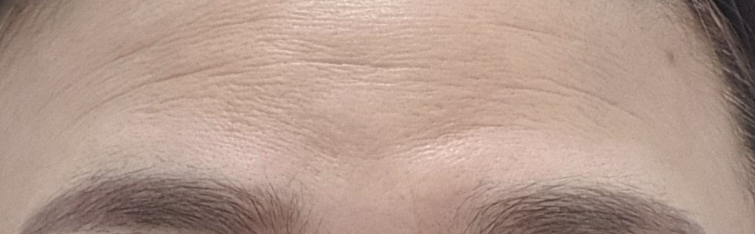
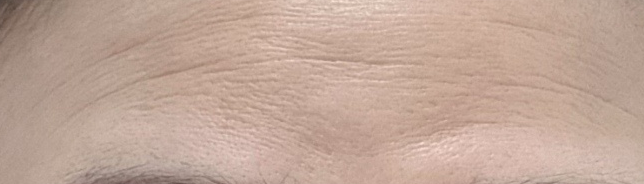
update the crop region
forehead, cheek and chin

diff --git a/src/img_cropping/crop_var3.py b/src/img_cropping/crop_var3.py
@@ -1,0 +1,203 @@
+# crop_regions_full.py
+import os
+import sys
+import glob
+import cv2
+import mediapipe as mp
+import numpy as np
+
+DEFAULT_INPUT_DIR = "images_in"
+OUTPUT_DIR = "crops_out"
+
+PADDING_X = 0.06   # horizontal padding
+PADDING_Y = 0.06   # vertical padding
+
+# --- Landmark index groups (MediaPipe FaceMesh) ---
+
+# Rough forehead band (upper forehead area)
+FOREHEAD_IDXS = [10, 67, 103, 109, 338, 297, 337, 151]
+
+# Eyebrow upper boundary (used as lower border for forehead)
+LEFT_EB_UPPER  = [70, 63, 105, 66, 107]
+RIGHT_EB_UPPER = [336, 296, 295, 334, 293]
+
+# Cheek horizontal extents (we'll clamp vertically between eye and lip)
+LEFT_CHEEK_IDXS  = [234, 93, 137, 132, 58, 172, 136, 150, 149, 176]
+RIGHT_CHEEK_IDXS = [454, 323, 366, 361, 288, 397, 365, 379, 378, 400]
+
+# Eye lower lids – define “under the eyes”
+LEFT_EYE_LOWER  = [145, 159]
+RIGHT_EYE_LOWER = [374, 386]
+
+# Upper and lower lip anchors
+UPPER_LIP = [13]        # mouth top center
+LOWER_LIP = [14]        # mouth bottom center
+
+# Chin / jaw for horizontal extent and bottom
+CHIN_IDXS = [152, 176, 148, 149, 150, 400, 379, 378, 365]
+
+
+def get_xy(landmarks, w, h):
+    return np.array([(int(l.x * w), int(l.y * h)) for l in landmarks], dtype=np.int32)
+
+
+def process_image(path, face_mesh):
+    img = cv2.imread(path)
+    if img is None:
+        print(f"[WARN] cannot read: {path}")
+        return
+
+    h, w = img.shape[:2]
+    rgb = cv2.cvtColor(img, cv2.COLOR_BGR2RGB)
+    res = face_mesh.process(rgb)
+
+    if not res.multi_face_landmarks:
+        print(f"[WARN] no face landmarks in: {path}")
+        return
+
+    lms = res.multi_face_landmarks[0].landmark
+    pts = get_xy(lms, w, h)
+
+    # Convenience picks
+    eyebrow_pts = pts[LEFT_EB_UPPER + RIGHT_EB_UPPER]
+    eye_lower_left  = pts[LEFT_EYE_LOWER]
+    eye_lower_right = pts[RIGHT_EYE_LOWER]
+    upper_lip_pts   = pts[UPPER_LIP]
+    lower_lip_pts   = pts[LOWER_LIP]
+    chin_pts        = pts[CHIN_IDXS]
+
+    eyebrow_y = int(np.min(eyebrow_pts[:, 1]))             # top of eyebrows
+    eye_y_left  = int(np.mean(eye_lower_left[:, 1]))       # lower eyelid left
+    eye_y_right = int(np.mean(eye_lower_right[:, 1]))      # lower eyelid right
+    upper_lip_y = int(np.mean(upper_lip_pts[:, 1]))        # top of lip
+    lower_lip_y = int(np.mean(lower_lip_pts[:, 1]))        # bottom of lip
+    chin_bottom_y = int(np.max(chin_pts[:, 1]))            # lowest chin point
+
+    # Small relative offsets so we stay strictly in the desired band
+    def band_y(top, bottom, inner_ratio_top=0.05, inner_ratio_bottom=0.05):
+        span = bottom - top
+        y1 = int(top + inner_ratio_top * span)
+        y2 = int(bottom - inner_ratio_bottom * span)
+        return max(0, y1), min(h - 1, y2)
+
+    # ----------------- Forehead (above eyebrows) -----------------
+    fh_pts = pts[FOREHEAD_IDXS]
+    x_min_fh = int(np.min(fh_pts[:, 0]))
+    x_max_fh = int(np.max(fh_pts[:, 0]))
+
+    # vertical: from forehead band down to just above eyebrows
+    fh_top = int(np.min(fh_pts[:, 1]))
+    fh_bottom = eyebrow_y
+    y1_fh, y2_fh = fh_top, fh_bottom - 1  # explicitly end above brows
+
+    # padding
+    dx_fh = int((x_max_fh - x_min_fh) * PADDING_X)
+    dy_fh = int((y2_fh - y1_fh) * PADDING_Y) if y2_fh > y1_fh else 0
+
+    x1_fh = max(0, x_min_fh - dx_fh)
+    x2_fh = min(w - 1, x_max_fh + dx_fh)
+    y1_fh = max(0, y1_fh - dy_fh)
+    y2_fh = max(y1_fh + 1, min(h - 1, y2_fh + dy_fh))
+
+    forehead = img[y1_fh:y2_fh, x1_fh:x2_fh]
+
+    # ----------------- Cheeks (under eyes, above lip) ------------
+
+    # vertical band for cheeks: between eye-lower and upper lip
+    cheek_top_left, cheek_bottom_left = band_y(eye_y_left, upper_lip_y)
+    cheek_top_right, cheek_bottom_right = band_y(eye_y_right, upper_lip_y)
+
+    # left cheek
+    l_pts = pts[LEFT_CHEEK_IDXS]
+    lx_min = int(np.min(l_pts[:, 0]))
+    lx_max = int(np.max(l_pts[:, 0]))
+    dx_l = int((lx_max - lx_min) * PADDING_X)
+
+    x1_l = max(0, lx_min - dx_l)
+    x2_l = min(w - 1, lx_max + dx_l)
+    y1_l = cheek_top_left
+    y2_l = cheek_bottom_left
+
+    left_cheek = img[y1_l:y2_l, x1_l:x2_l]
+
+    # right cheek
+    r_pts = pts[RIGHT_CHEEK_IDXS]
+    rx_min = int(np.min(r_pts[:, 0]))
+    rx_max = int(np.max(r_pts[:, 0]))
+    dx_r = int((rx_max - rx_min) * PADDING_X)
+
+    x1_r = max(0, rx_min - dx_r)
+    x2_r = min(w - 1, rx_max + dx_r)
+    y1_r = cheek_top_right
+    y2_r = cheek_bottom_right
+
+    right_cheek = img[y1_r:y2_r, x1_r:x2_r]
+
+    # ----------------- Chin (from under lip to chin) -------------
+    cx_min = int(np.min(chin_pts[:, 0]))
+    cx_max = int(np.max(chin_pts[:, 0]))
+
+    # vertical: start a bit below lower lip, end at chin bottom
+    chin_top_raw, chin_bottom_raw = lower_lip_y, chin_bottom_y
+    chin_top, chin_bottom = band_y(chin_top_raw, chin_bottom_raw,
+                                   inner_ratio_top=0.1, inner_ratio_bottom=0.0)
+
+    dx_c = int((cx_max - cx_min) * PADDING_X)
+    x1_c = max(0, cx_min - dx_c)
+    x2_c = min(w - 1, cx_max + dx_c)
+
+    y1_c = chin_top
+    y2_c = min(h - 1, chin_bottom + int((chin_bottom - chin_top) * PADDING_Y))
+
+    chin = img[y1_c:y2_c, x1_c:x2_c]
+
+    # ----------------- Save all four regions ---------------------
+    base = os.path.splitext(os.path.basename(path))[0]
+    out_forehead = os.path.join(OUTPUT_DIR, f"{base}_forehead.png")
+    out_left = os.path.join(OUTPUT_DIR, f"{base}_left_cheek.png")
+    out_right = os.path.join(OUTPUT_DIR, f"{base}_right_cheek.png")
+    out_chin = os.path.join(OUTPUT_DIR, f"{base}_chin.png")
+
+    cv2.imwrite(out_forehead, forehead)
+    cv2.imwrite(out_left, left_cheek)
+    cv2.imwrite(out_right, right_cheek)
+    cv2.imwrite(out_chin, chin)
+
+    print(f"[FULL] {path} ->")
+    print(f"       {out_forehead}")
+    print(f"       {out_left}")
+    print(f"       {out_right}")
+    print(f"       {out_chin}")
+
+
+def collect_paths(cli_arg):
+    if cli_arg is not None:
+        return [cli_arg]
+    paths = []
+    for pat in ("*.jpg", "*.jpeg", "*.png"):
+        paths.extend(glob.glob(os.path.join(DEFAULT_INPUT_DIR, pat)))
+    return sorted(paths)
+
+
+def main():
+    cli_path = sys.argv[1] if len(sys.argv) > 1 else None
+    os.makedirs(OUTPUT_DIR, exist_ok=True)
+
+    img_paths = collect_paths(cli_path)
+    if not img_paths:
+        print("[ERROR] no images found")
+        return
+
+    mp_face_mesh = mp.solutions.face_mesh
+    with mp_face_mesh.FaceMesh(
+        static_image_mode=True,
+        max_num_faces=1,
+        refine_landmarks=True,
+        min_detection_confidence=0.5
+    ) as face_mesh:
+        for p in img_paths:
+            process_image(p, face_mesh)
+
+
+if __name__ == "__main__":
+    main()

diff --git a/src/img_cropping/crop_var2.py b/src/img_cropping/crop_var2.py
@@ -1,0 +1,145 @@
+import os
+import sys
+import glob
+import cv2
+import mediapipe as mp
+import numpy as np
+
+DEFAULT_INPUT_DIR = "images_in"
+OUTPUT_DIR = "crops_out"
+PADDING = 0.06  # bbox padding ratio
+
+# --- Updated MediaPipe FaceMesh landmark indices based on requested regions ---
+# Note: The indices are approximations based on the nearest landmarks matching the description.
+
+# Forehead: should be above the eyebrows (using points along the hairline/upper head)
+# Original points were near the top of the face/eyebrow area.
+FOREHEAD_IDXS = [
+    10, 338, 297, 336, 150, 263, 249, 390, 373, 
+    46, 105, 107, 66, 67, 108, 109, 10, 338, 297, 336
+]
+
+# Cheeks: starts under the eyes and end above the lip
+# The original indices are a good basis but the new requirement is stricter.
+# We'll use points under the eyes and above the mouth/lip area.
+# Left Cheek: Under left eye, above left corner of lip.
+LEFT_CHEEK_IDXS = [
+    234, 132, 137, 169, 210, 199, 126, 93, 
+    58, 172, 136, 149, 150, 176 # including some outer jaw/mid-face points for width
+]
+
+# Right Cheek: Under right eye, above right corner of lip.
+RIGHT_CHEEK_IDXS = [
+    454, 361, 366, 396, 430, 419, 355, 323, 
+    288, 397, 365, 378, 379, 400 # including some outer jaw/mid-face points for width
+]
+
+# Chin: from the under of lip (points on the lower lip border and central chin/jawline)
+CHIN_IDXS = [
+    152,        # chin center
+    150, 149, 176, 148, # lower left jaw/chin points
+    377, 400, 378, 379, 365, # lower right jaw/chin points
+    17, 84, 91, 181, 405, 314 # points around the lower lip/mouth center
+]
+
+
+def get_bbox(pts_xy, indices, w, h, padding_ratio):
+    region = pts_xy[indices]
+    x_min = int(np.min(region[:, 0]))
+    x_max = int(np.max(region[:, 0]))
+    y_min = int(np.min(region[:, 1]))
+    y_max = int(np.max(region[:, 1]))
+
+    dx = int((x_max - x_min) * padding_ratio)
+    dy = int((y_max - y_min) * padding_ratio)
+
+    x_min = max(0, x_min - dx)
+    x_max = min(w - 1, x_max + dx)
+    y_min = max(0, y_min - dy)
+    y_max = min(h - 1, y_max + dy)
+    return x_min, y_min, x_max, y_max
+
+
+def process_image(path, face_mesh):
+    img = cv2.imread(path)
+    if img is None:
+        print(f"[WARN] cannot read: {path}")
+        return
+
+    h, w = img.shape[:2]
+    rgb = cv2.cvtColor(img, cv2.COLOR_BGR2RGB)
+    res = face_mesh.process(rgb)
+
+    if not res.multi_face_landmarks:
+        print(f"[WARN] no face landmarks in: {path}")
+        return
+
+    lms = res.multi_face_landmarks[0].landmark
+    pts = np.array([(int(l.x * w), int(l.y * h)) for l in lms], dtype=np.int32)
+
+    # Forehead
+    fx1, fy1, fx2, fy2 = get_bbox(pts, FOREHEAD_IDXS, w, h, PADDING)
+    forehead = img[fy1:fy2, fx1:fx2]
+
+    # Left cheek
+    lx1, ly1, lx2, ly2 = get_bbox(pts, LEFT_CHEEK_IDXS, w, h, PADDING)
+    left_cheek = img[ly1:ly2, lx1:lx2]
+
+    # Right cheek
+    rx1, ry1, rx2, ry2 = get_bbox(pts, RIGHT_CHEEK_IDXS, w, h, PADDING)
+    right_cheek = img[ry1:ry2, rx1:rx2]
+
+    # Chin
+    cx1, cy1, cx2, cy2 = get_bbox(pts, CHIN_IDXS, w, h, PADDING)
+    chin = img[cy1:cy2, cx1:cx2]
+
+    base = os.path.splitext(os.path.basename(path))[0]
+    out_forehead = os.path.join(OUTPUT_DIR, f"{base}_forehead.png")
+    out_left = os.path.join(OUTPUT_DIR, f"{base}_left_cheek.png")
+    out_right = os.path.join(OUTPUT_DIR, f"{base}_right_cheek.png")
+    out_chin = os.path.join(OUTPUT_DIR, f"{base}_chin.png")
+
+    cv2.imwrite(out_forehead, forehead)
+    cv2.imwrite(out_left, left_cheek)
+    cv2.imwrite(out_right, right_cheek)
+    cv2.imwrite(out_chin, chin)
+
+    print(f"[FULL] {path} ->")
+    print(f"       {out_forehead}")
+    print(f"       {out_left}")
+    print(f"       {out_right}")
+    print(f"       {out_chin}")
+
+
+def collect_paths(cli_arg):
+    if cli_arg is not None:
+        return [cli_arg]
+    paths = []
+    for pat in ("*.jpg", "*.jpeg", "*.png"):
+        paths.extend(glob.glob(os.path.join(DEFAULT_INPUT_DIR, pat)))
+    return sorted(paths)
+
+
+def main():
+    cli_path = sys.argv[1] if len(sys.argv) > 1 else None
+    os.makedirs(OUTPUT_DIR, exist_ok=True)
+
+    img_paths = collect_paths(cli_path)
+    if not img_paths:
+        print("[ERROR] no images found")
+        return
+
+    mp_face_mesh = mp.solutions.face_mesh
+    with mp_face_mesh.FaceMesh(
+        static_image_mode=True,
+        max_num_faces=1,
+        refine_landmarks=True,
+        min_detection_confidence=0.5
+    ) as face_mesh:
+        for p in img_paths:
+            process_image(p, face_mesh)
+
+
+if __name__ == "__main__":
+    main()
+    # The original script had a misplaced print statement here, removed/corrected for logic.
